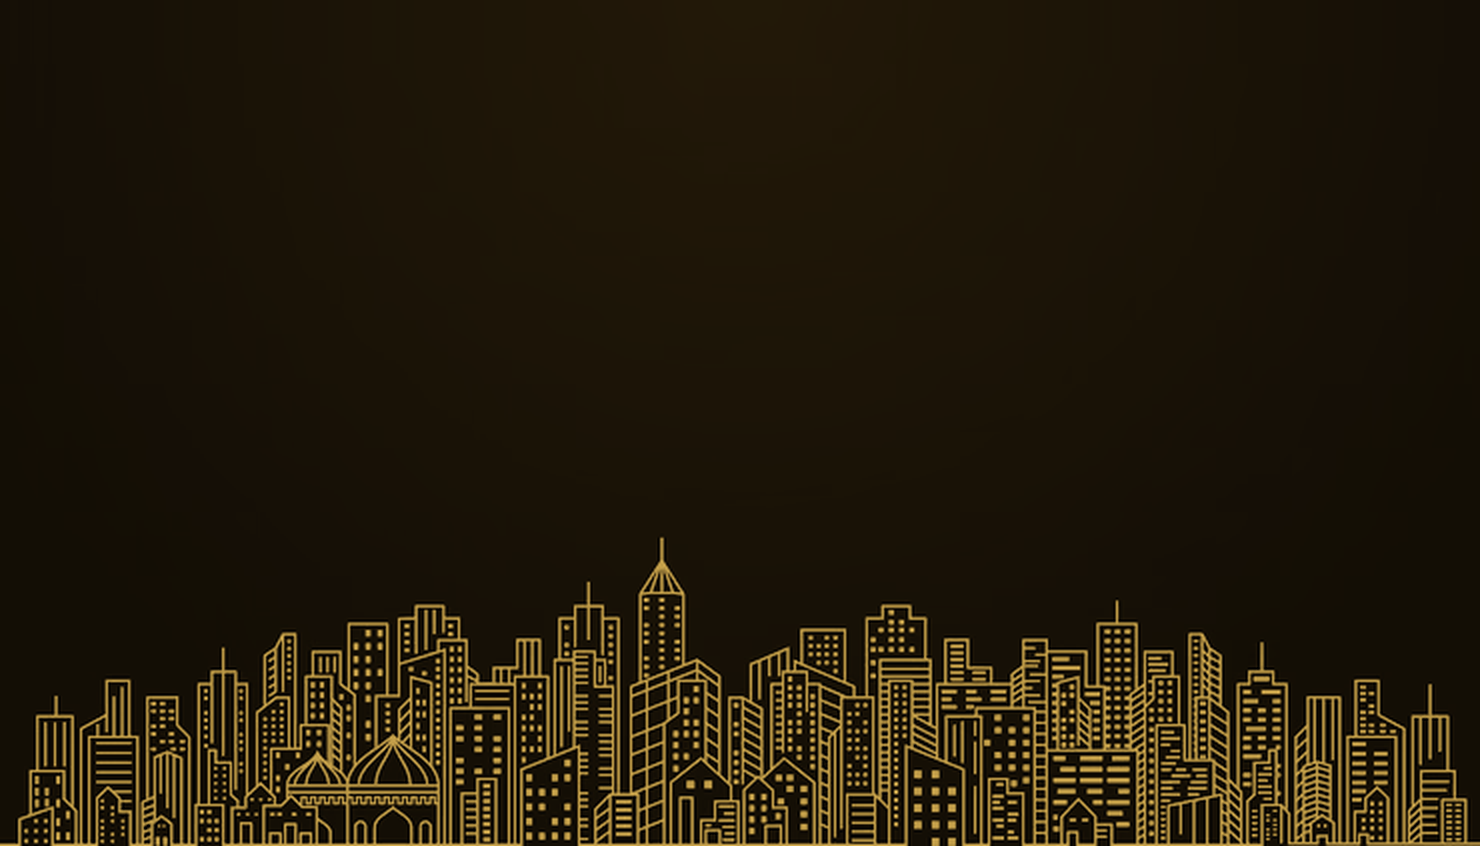
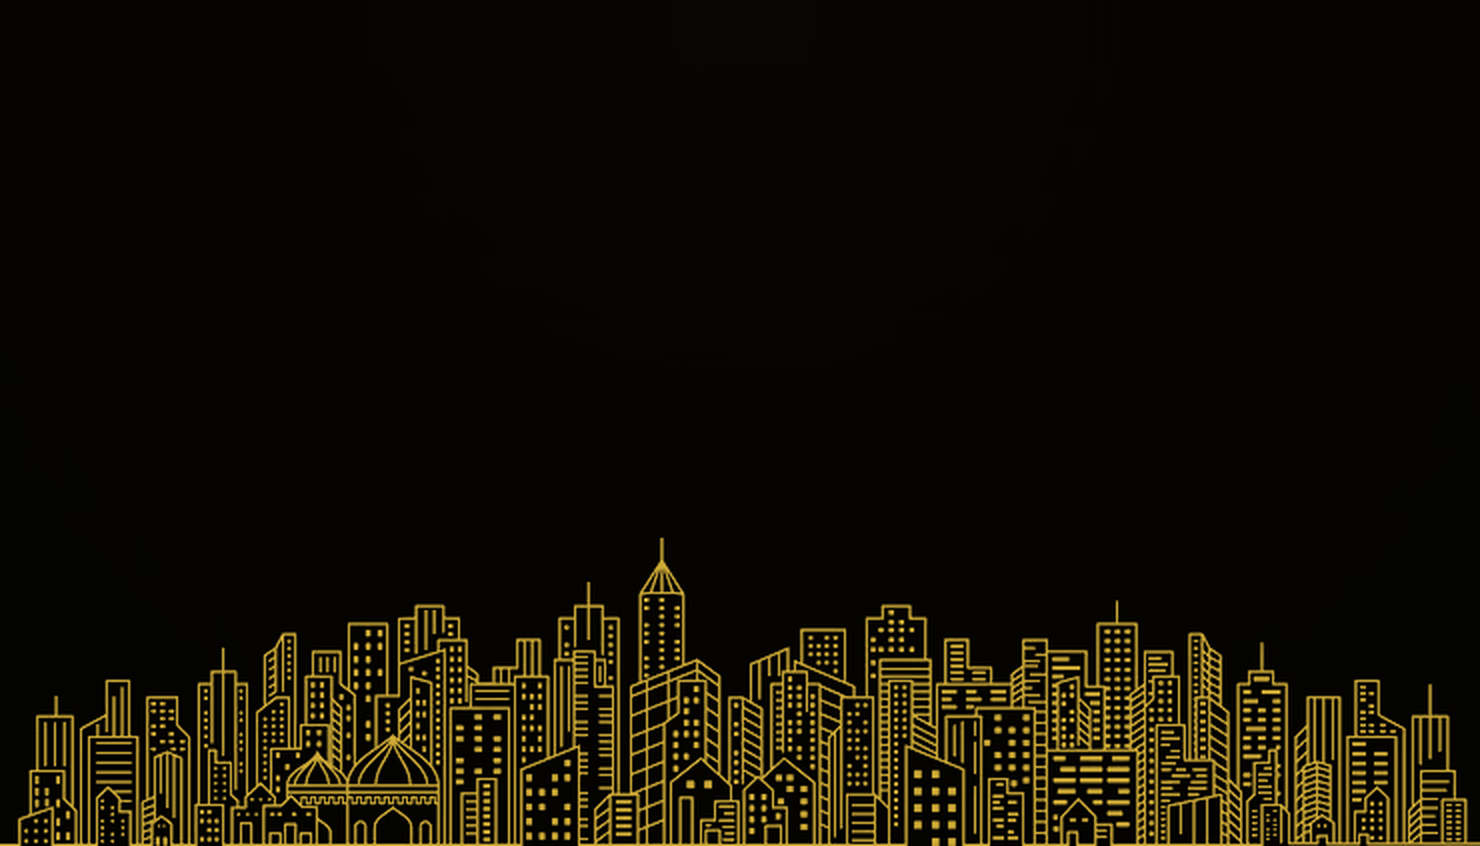
Make the theme true black instead of warm brown-black
Surface colors (--sand/--panel/--panel-raised) and the skyline
duotone both had a warm brown cast (unequal RGB channels near zero).
Switched to neutral near-black (#000/#0A0A0A/#121212/#1A1A1A) and
regenerated the duotone with a pure #000000 black point, so gold is
the only color in the palette instead of gold-on-brown.

Changed region(s): [[0.3419, 0.0, 0.6838, 0.3073], [0.5905, 0.7376, 0.6216, 0.7683], [0.5595, 0.9835, 0.5905, 1.0]]

diff --git a/src/app/globals.css b/src/app/globals.css
@@ -1,8 +1,8 @@
 :root{
-  --sand: #060503;
-  --sand-deep: #0D0B07;
-  --panel: #121009;
-  --panel-raised: #1C1810;
+  --sand: #000000;
+  --sand-deep: #0A0A0A;
+  --panel: #121212;
+  --panel-raised: #1A1A1A;
   --ink: #F3EAD3;
   --ink-soft: #B7AC90;
   --brass: #D4AF37;
@@ -24,7 +24,7 @@ body{
   margin:0;
   background-color:var(--sand);
   background-image:
-    linear-gradient(to bottom, rgba(6,5,3,0) 0%, rgba(6,5,3,0.55) 55%, rgba(6,5,3,0.95) 100%),
+    linear-gradient(to bottom, rgba(0,0,0,0.35) 0%, rgba(0,0,0,0.55) 55%, rgba(0,0,0,0.92) 100%),
     url('/skyline-bg.png');
   background-repeat:no-repeat;
   background-position:center bottom;
